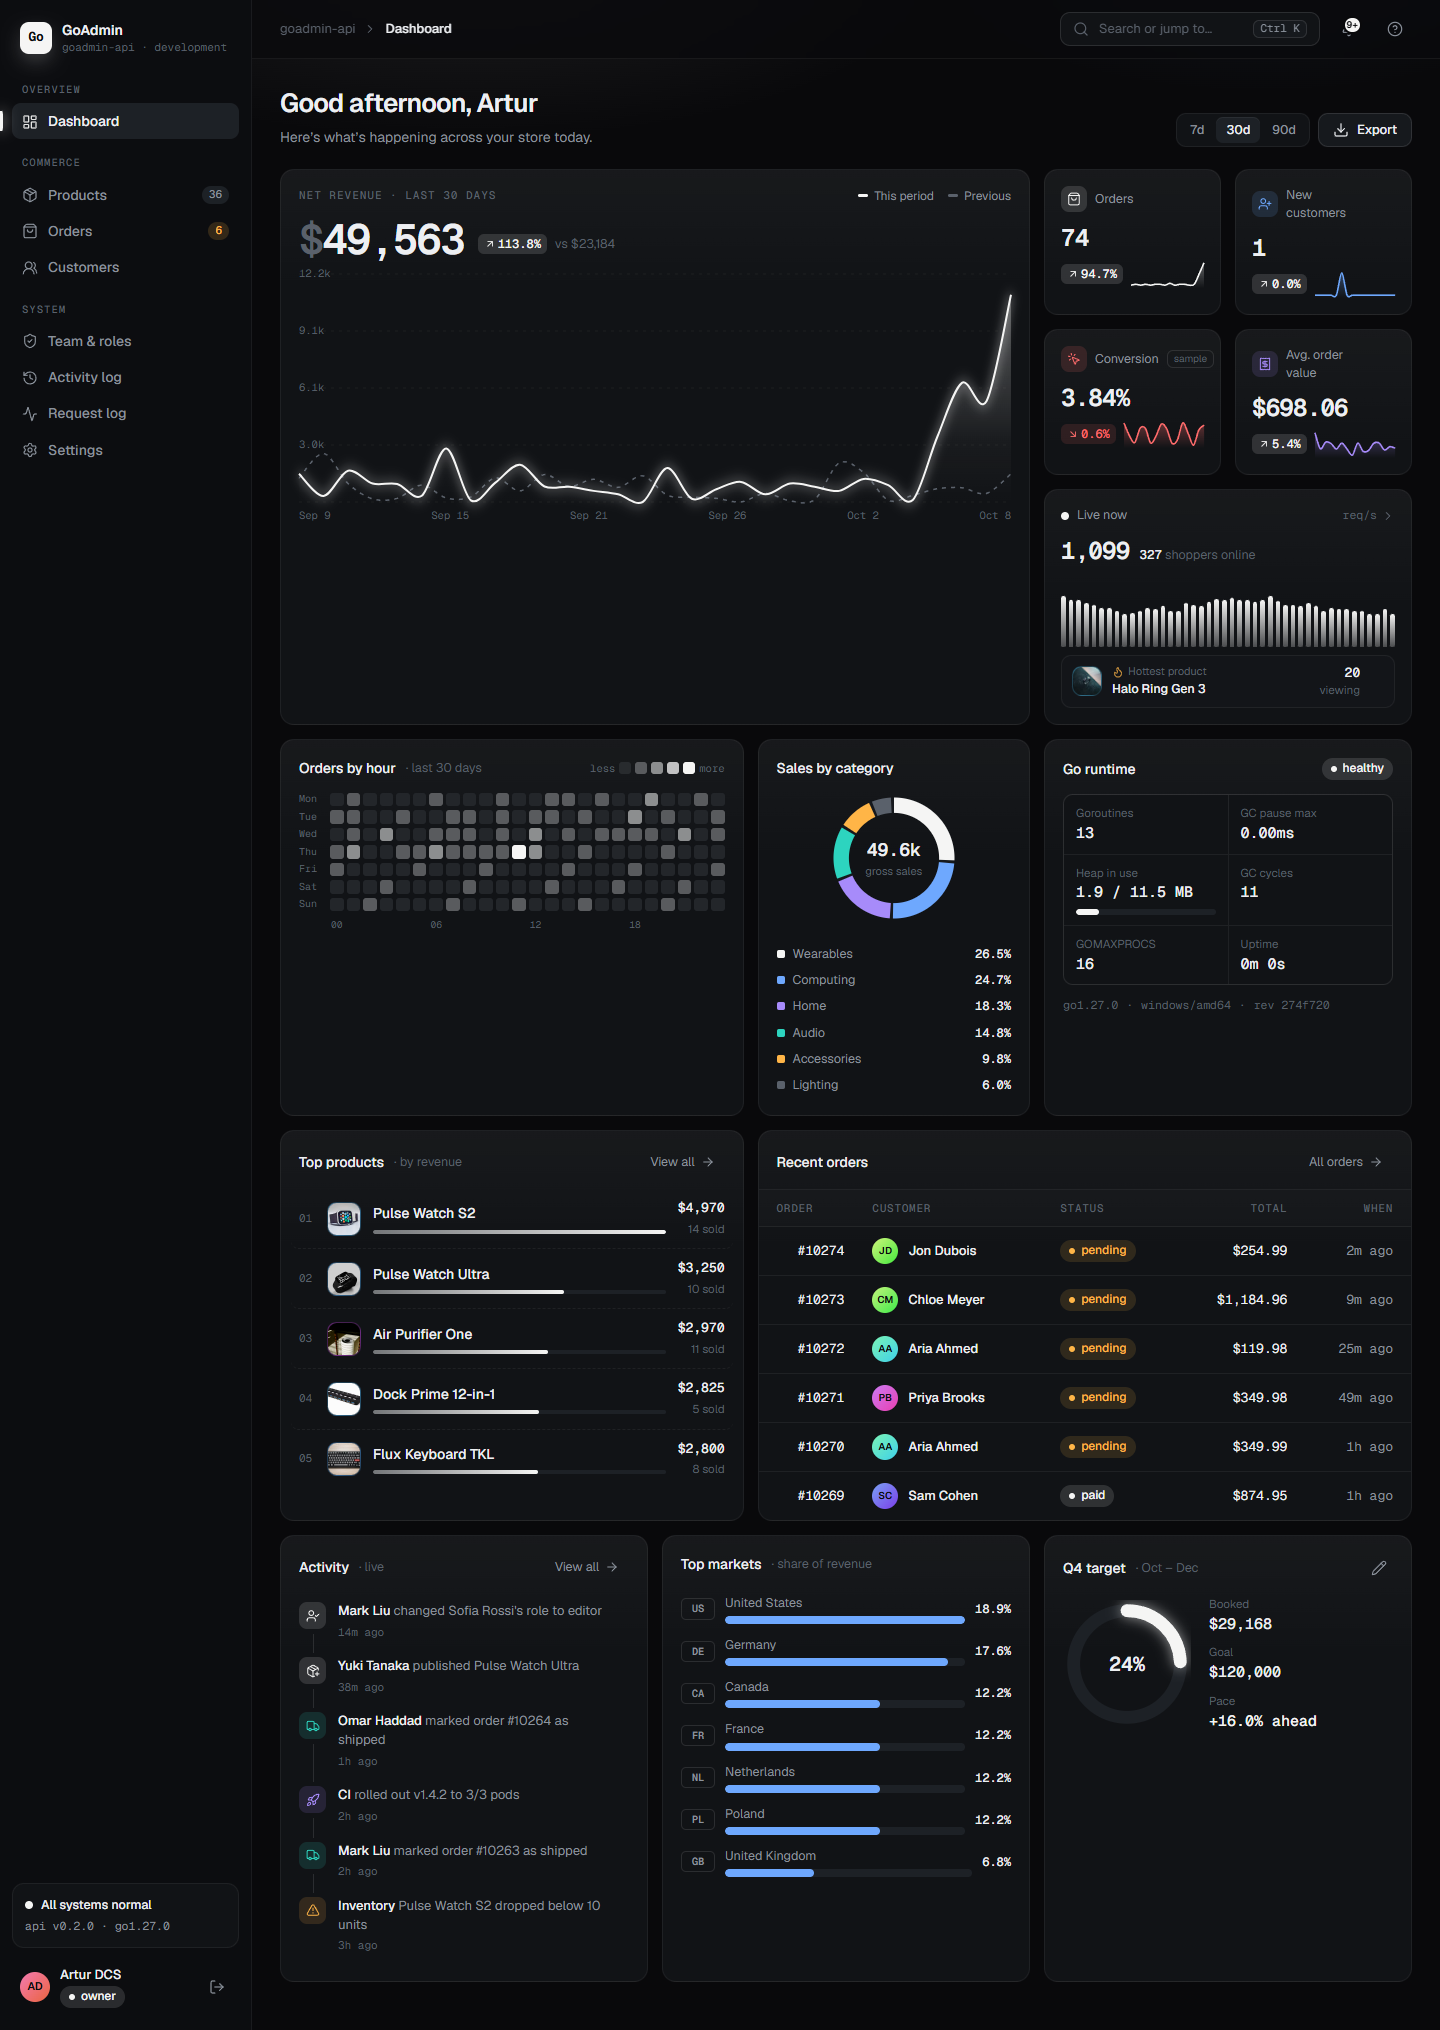
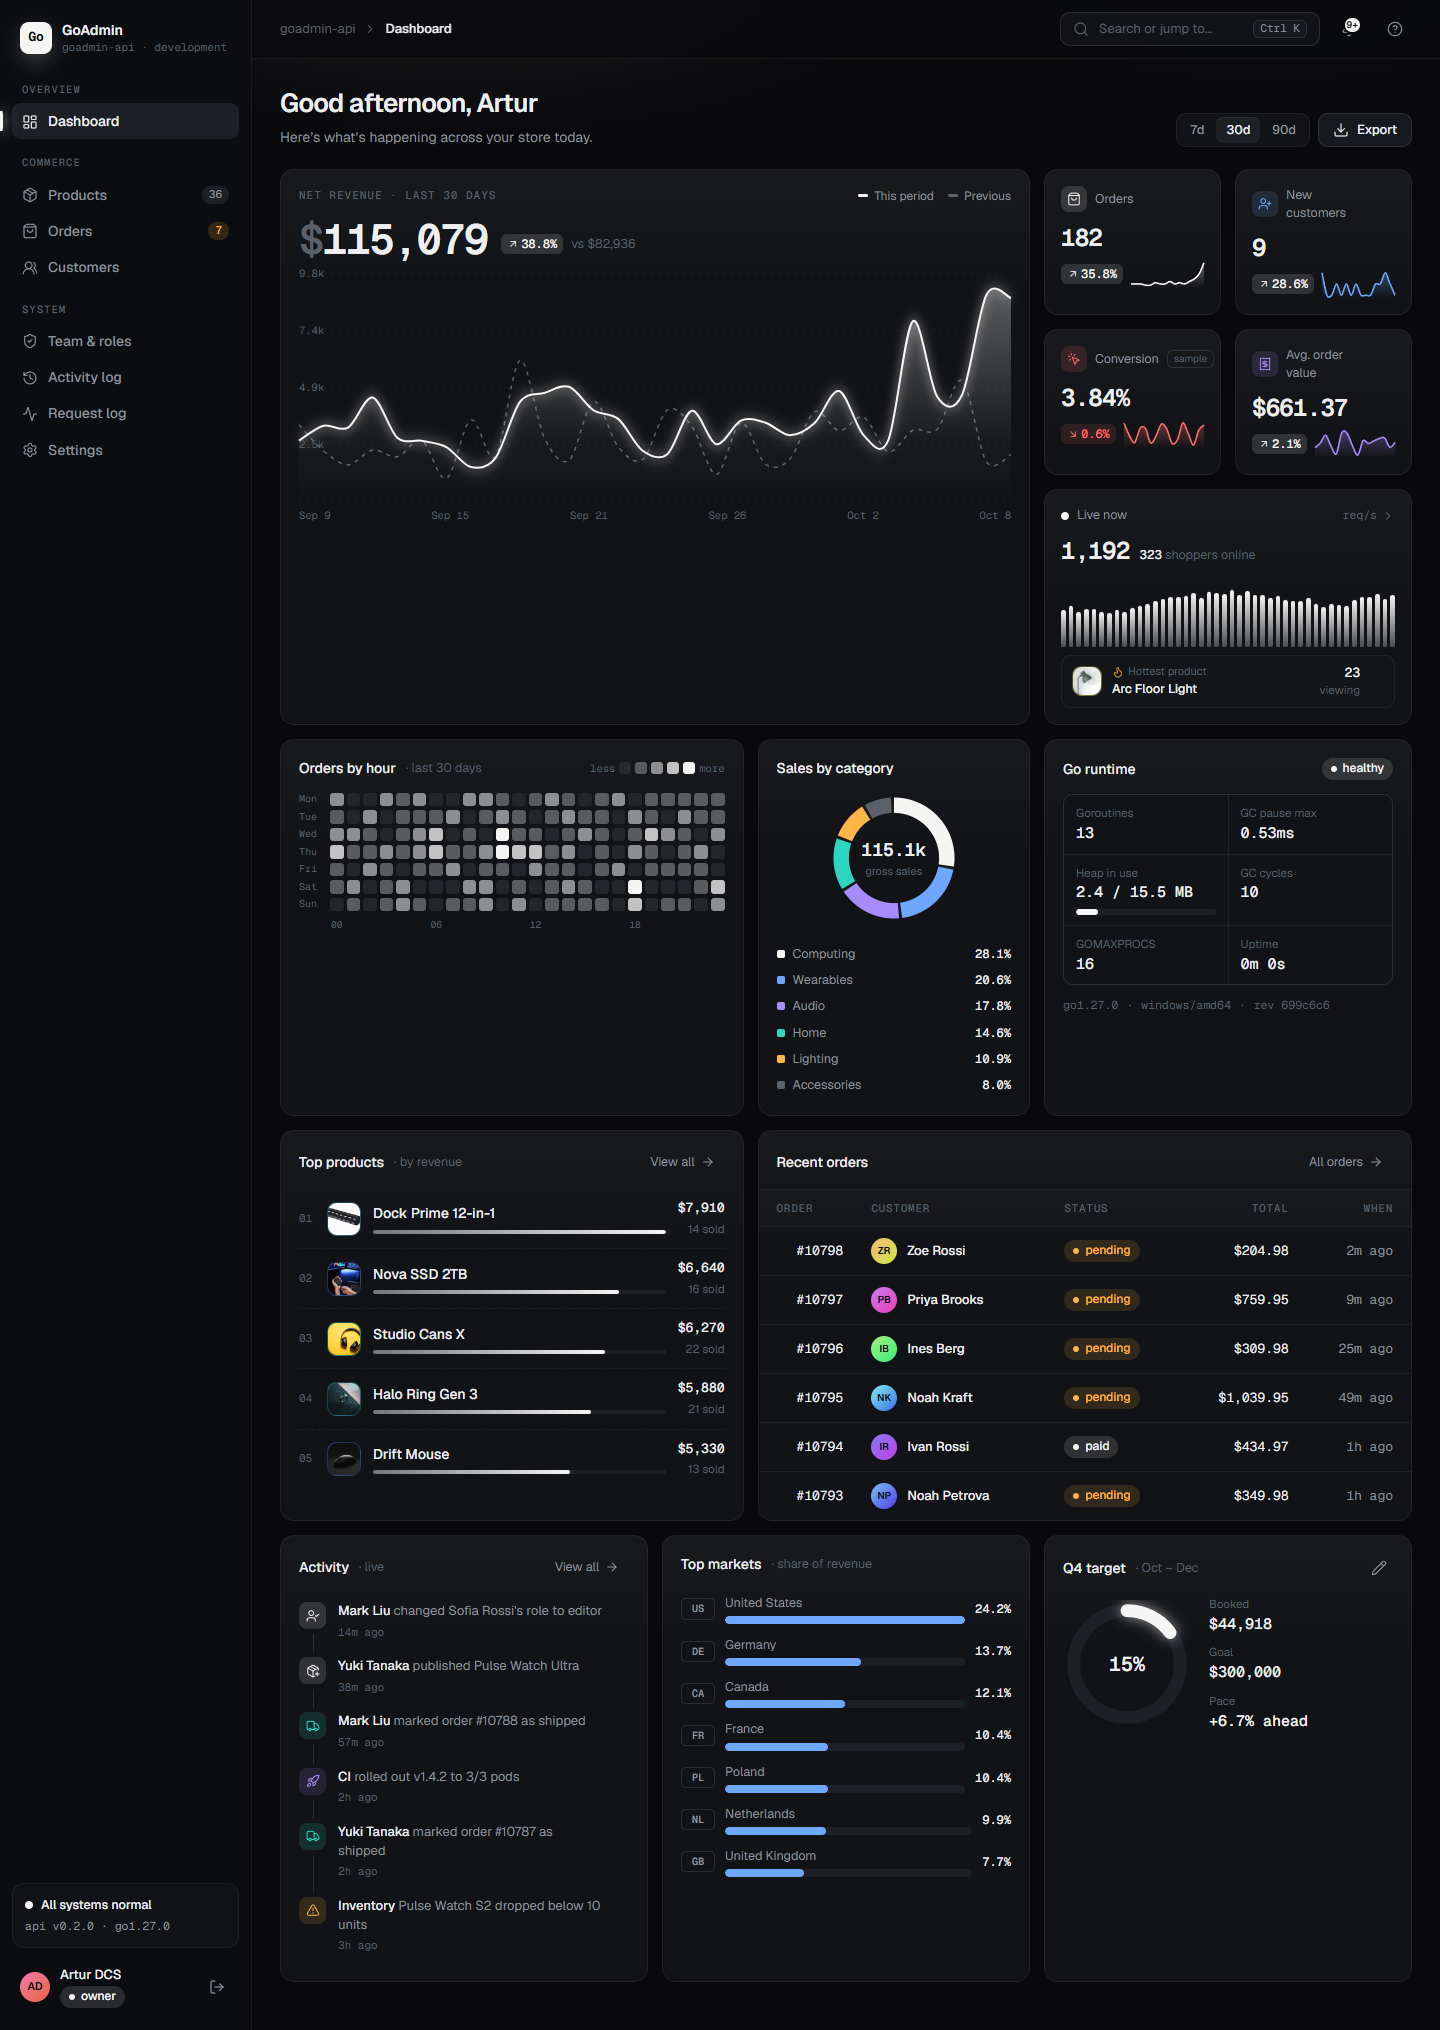
Seed more customers and sales: about $280k over a quarter
151 customers and ~850 orders, thinning into the past so the business grows;
the default quarter goal is $300k. Customer names stay unique past 30.

diff --git a/web/e2e/dashboard.spec.ts b/web/e2e/dashboard.spec.ts
@@ -121,7 +121,7 @@ test('the owner edits the quarterly target; other roles cannot', async ({ page }
   await expect(card.getByTestId('target-updated')).toContainText('Goal set by Artur DCS')
 
   const feed = page.locator('.card', { has: page.getByRole('heading', { name: 'Activity' }) })
-  await expect(feed.getByTestId('activity-item').first()).toContainText('target to $900,000.00 (was $120,000.00)')
+  await expect(feed.getByTestId('activity-item').first()).toContainText('target to $900,000.00 (was $300,000.00)')
 
   await loginAs(page, 'admin', '/')
   await expect(page.getByRole('button', { name: 'Edit target' })).toHaveCount(0)

diff --git a/internal/seed/seed.go b/internal/seed/seed.go
@@ -187,8 +187,10 @@ func Generate(now time.Time) *Dataset {
 		"Left a 5★ review after support call.",
 	}
 	var noteID int64
-	for i := range 42 {
-		first, last := firstNames[(i*7)%len(firstNames)], lastNames[(i*11+3)%len(lastNames)]
+	const customerCount = 151
+	for i := range customerCount {
+		// The pair is unique for the first len(first)*len(last) customers.
+		first, last := firstNames[(i*7)%len(firstNames)], lastNames[(i*11+3+i/len(firstNames))%len(lastNames)]
 		country := pickWeighted(r, marketWeights)
 		c := d.Customer{
 			ID:      int64(i + 1),
@@ -245,7 +247,8 @@ func Generate(now time.Time) *Dataset {
 		mins := math.Pow(float64(i), 1.75)*7 + 2
 		if i >= recent {
 			head := math.Pow(recent, 1.75)*7 + 2
-			mins = head + float64(i-recent)/float64(len(owners)-recent)*(180*24*60-head)
+			// Exponent above 1: sales thin out into the past, so the business grows.
+			mins = head + math.Pow(float64(i-recent)/float64(len(owners)-recent), 1.15)*(180*24*60-head)
 		}
 		placed := now.Add(-time.Duration(mins) * time.Minute)
 		age := now.Sub(placed)

diff --git a/internal/httpapi/team_test.go b/internal/httpapi/team_test.go
@@ -87,7 +87,7 @@ func TestQuarterTarget(t *testing.T) {
 
 	_, before := owner.do("GET", "/api/v1/dashboard", nil)
 	tg := before["target"].(map[string]any)
-	if tg["goalCents"].(float64) != 12_000_000 || tg["updatedBy"] != "" {
+	if tg["goalCents"].(float64) != 30_000_000 || tg["updatedBy"] != "" {
 		t.Fatalf("default target = %v", tg)
 	}
 
@@ -103,7 +103,7 @@ func TestQuarterTarget(t *testing.T) {
 		t.Fatalf("dashboard target = %v", dash["target"])
 	}
 	_, act := owner.do("GET", "/api/v1/activity?kind=target&limit=1", nil)
-	if msg := act["items"].([]any)[0].(map[string]any)["message"].(string); msg != "set the "+tg["label"].(string)[:2]+" "+tg["quarter"].(string)[:4]+" target to $60,000.00 (was $120,000.00)" {
+	if msg := act["items"].([]any)[0].(map[string]any)["message"].(string); msg != "set the "+tg["label"].(string)[:2]+" "+tg["quarter"].(string)[:4]+" target to $60,000.00 (was $300,000.00)" {
 		t.Fatalf("activity = %q", msg)
 	}
 

diff --git a/internal/seed/activity.go b/internal/seed/activity.go
@@ -93,7 +93,7 @@ func BuildActivity(s *Dataset, now time.Time) []d.Activity {
 
 	// Team and workspace.
 	add(ago(2*24*time.Hour+3*time.Hour), d.ActTeam, "Artur DCS", "invited Sofia Rossi as viewer", "member", 3)
-	add(ago(4*24*time.Hour), d.ActTarget, "Artur DCS", "set the Q4 target to $120,000.00", "", 0)
+	add(ago(4*24*time.Hour), d.ActTarget, "Artur DCS", "set the Q4 target to $300,000.00", "", 0)
 	add(ago(6*24*time.Hour), d.ActTeam, "Mark Liu", "suspended Lena Kraft", "member", 5)
 	add(ago(5*24*time.Hour+2*time.Hour), d.ActRole, "Artur DCS", "changed Diego Vega's access: granted Edit products", "member", 8)
 	add(ago(6*24*time.Hour+5*time.Hour), d.ActRole, "Artur DCS", "changed Omar Haddad's access: revoked Edit settings", "member", 6)

diff --git a/internal/domain/dashboard.go b/internal/domain/dashboard.go
@@ -74,7 +74,7 @@ type TargetGoal struct {
 
 const (
 	// DefaultGoalCents applies until the owner sets a goal for the quarter.
-	DefaultGoalCents = 12_000_000
+	DefaultGoalCents = 30_000_000
 	MaxGoalCents     = 10_000_000_000_000 // $100bn
 )
 
